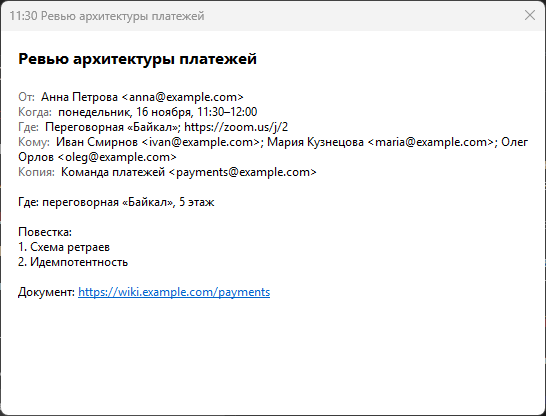
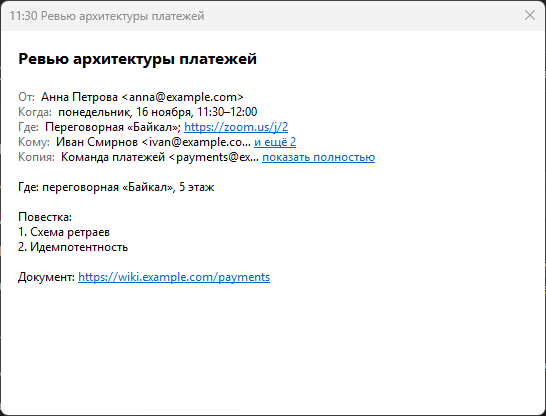
MeetingBell 1.1: участники в описании свёрнуты до 30 символов, ссылки в «Где», ссылки не захватывают кавычки и символы направления

diff --git a/src/DescriptionForm.cs b/src/DescriptionForm.cs
@@ -1,3 +1,4 @@
+using System;
 using System.Collections.Generic;
 using System.Drawing;
 using System.Globalization;
@@ -7,13 +8,19 @@ namespace MeetingBell
 {
     internal sealed class DescriptionForm : Form
     {
+        private const string ExpandTarget = "#expand:";
+        private const string CollapseTarget = "#collapse:";
+        private const int CollapsedLength = 30;
+        private const string MorePrefix = "и ещё ";
         private static readonly Color LinkColor = Color.FromArgb(0, 102, 204);
         private static readonly Color Muted = Color.FromArgb(110, 110, 110);
         private static readonly CultureInfo Russian = new CultureInfo("ru-RU");
         private readonly Meeting meeting;
         private readonly RichTextBox text;
         private readonly Font titleFont;
+        private readonly HashSet<string> expanded = new HashSet<string>();
         private List<TextLink> links = new List<TextLink>();
+        private string plain = "";
 
         public DescriptionForm(Meeting meeting)
         {
@@ -50,7 +57,6 @@ namespace MeetingBell
             {
                 if (e.KeyCode == Keys.Escape) Close();
             };
-            Shown += (sender, e) => text.Select(0, 0);
         }
 
         internal static string When(Meeting meeting)
@@ -59,23 +65,39 @@ namespace MeetingBell
             return meeting.IsAllDay ? day + ", весь день" : day + ", " + meeting.Start.ToString("HH:mm") + "–" + meeting.End.ToString("HH:mm");
         }
 
+        internal static List<string> SplitPeople(string value, out int more)
+        {
+            more = 0;
+            var people = new List<string>(value.Split(new[] { "; " }, StringSplitOptions.RemoveEmptyEntries));
+            int last = people.Count - 1;
+            int tail;
+            if (last >= 0 && people[last].StartsWith(MorePrefix) && int.TryParse(people[last].Substring(MorePrefix.Length), out tail))
+            {
+                more = tail;
+                people.RemoveAt(last);
+            }
+            return people;
+        }
+
         private void Render()
         {
             text.Clear();
+            var toggles = new List<TextLink>();
             Append(meeting.DisplaySubject + "\n\n", titleFont, ForeColor);
+            int linksFrom = text.TextLength;
             Field("От", meeting.Organizer);
             Field("Когда", When(meeting));
             Field("Где", string.IsNullOrWhiteSpace(meeting.Location) ? null : meeting.Location.Trim());
-            Field("Кому", meeting.RequiredAttendees);
-            Field("Копия", meeting.OptionalAttendees);
+            PeopleField("Кому", meeting.RequiredAttendees, toggles);
+            PeopleField("Копия", meeting.OptionalAttendees, toggles);
             Append("\n", Font, ForeColor);
-            int bodyStart = text.TextLength;
             if (meeting.Description == null) Append("Текста приглашения нет.", Font, Muted);
             else Append(meeting.Description.Replace("\r\n", "\n"), Font, ForeColor);
-            links = new List<TextLink>();
-            foreach (TextLink link in MeetingLinks.WebLinks(text.Text.Substring(bodyStart)))
+            plain = text.Text;
+            links = new List<TextLink>(toggles);
+            foreach (TextLink link in MeetingLinks.WebLinks(plain.Substring(linksFrom)))
             {
-                links.Add(new TextLink(bodyStart + link.Start, link.Length, link.Url));
+                links.Add(new TextLink(linksFrom + link.Start, link.Length, link.Url));
             }
             using (var underline = new Font(Font, FontStyle.Underline))
             {
@@ -96,6 +118,62 @@ namespace MeetingBell
             Append(value + "\n", Font, ForeColor);
         }
 
+        internal static string Collapse(string value, out int hidden)
+        {
+            hidden = 0;
+            if (value.Length <= CollapsedLength) return value;
+            int more;
+            List<string> people = SplitPeople(value, out more);
+            string shown = "";
+            int count = 0;
+            while (count < people.Count)
+            {
+                string candidate = count == 0 ? people[0] : shown + "; " + people[count];
+                if (candidate.Length > CollapsedLength) break;
+                shown = candidate;
+                count++;
+            }
+            if (count == 0 && people.Count > 0)
+            {
+                int cut = char.IsHighSurrogate(people[0][CollapsedLength - 2]) ? CollapsedLength - 2 : CollapsedLength - 1;
+                shown = people[0].Substring(0, cut).TrimEnd() + "…";
+                count = 1;
+            }
+            hidden = people.Count - count + more;
+            return shown;
+        }
+
+        private void PeopleField(string label, string value, List<TextLink> toggles)
+        {
+            if (value == null) return;
+            Append(label + ":  ", Font, Muted);
+            int hidden;
+            string collapsed = Collapse(value, out hidden);
+            if (collapsed == value)
+            {
+                Append(value + "\n", Font, ForeColor);
+                return;
+            }
+            if (expanded.Contains(label))
+            {
+                Append(value, Font, ForeColor);
+                Toggle("свернуть", CollapseTarget + label, toggles);
+            }
+            else
+            {
+                Append(collapsed, Font, ForeColor);
+                Toggle(hidden > 0 ? MorePrefix + hidden : "показать полностью", ExpandTarget + label, toggles);
+            }
+            Append("\n", Font, ForeColor);
+        }
+
+        private void Toggle(string caption, string target, List<TextLink> toggles)
+        {
+            Append(" ", Font, ForeColor);
+            toggles.Add(new TextLink(text.TextLength, caption.Length, target));
+            Append(caption, Font, LinkColor);
+        }
+
         private void Append(string value, Font font, Color color)
         {
             text.Select(text.TextLength, 0);
@@ -112,7 +190,7 @@ namespace MeetingBell
             Point start = text.GetPositionFromCharIndex(index);
             if (point.Y < start.Y || point.Y >= start.Y + Font.Height || point.X < start.X) return null;
             Point next = index + 1 < text.TextLength ? text.GetPositionFromCharIndex(index + 1) : Point.Empty;
-            int right = index + 1 < text.TextLength && next.Y == start.Y ? next.X : start.X + TextRenderer.MeasureText(text.Text.Substring(index, 1), Font).Width;
+            int right = index + 1 < text.TextLength && next.Y == start.Y ? next.X : start.X + TextRenderer.MeasureText(plain.Substring(index, 1), Font, Size.Empty, TextFormatFlags.NoPadding).Width;
             if (point.X >= right) return null;
             return links.Find(link => link.Contains(index));
         }
@@ -122,6 +200,15 @@ namespace MeetingBell
             if (e.Button != MouseButtons.Left || text.SelectionLength > 0) return;
             TextLink link = LinkAt(e.Location);
             if (link == null) return;
+            if (link.Url.StartsWith(ExpandTarget) || link.Url.StartsWith(CollapseTarget))
+            {
+                bool expand = link.Url.StartsWith(ExpandTarget);
+                string field = link.Url.Substring(expand ? ExpandTarget.Length : CollapseTarget.Length);
+                if (expand) expanded.Add(field);
+                else expanded.Remove(field);
+                Render();
+                return;
+            }
             Usage.Hit("description.link");
             string problem = MeetingLinks.Open(link.Url);
             AppLog.Append(problem == null ? "description link opened" : "description link not opened: " + problem);

diff --git a/tests/Tests.cs b/tests/Tests.cs
@@ -245,6 +245,14 @@ namespace MeetingBell
             Check(reloaded.Meetings[0].Organizer == "Анна <anna@example.com>" && reloaded.Meetings[0].RequiredAttendees == "Боб \"шеф\"" && reloaded.Meetings[0].OptionalAttendees == null && reloaded.Meetings[1].Organizer == null, "people survive restart");
             var morning = new Meeting { Start = new DateTime(2026, 11, 16, 11, 30, 0), End = new DateTime(2026, 11, 16, 12, 0, 0) };
             Check(DescriptionForm.When(morning) == "понедельник, 16 ноября, 11:30–12:00", "card time line");
+            int hiddenPeople;
+            Check(DescriptionForm.Collapse("Ян <y@example.com>", out hiddenPeople) == "Ян <y@example.com>" && hiddenPeople == 0, "short people line shown whole");
+            Check(DescriptionForm.Collapse("Ян <y@ex.ru>; Ли <l@ex.ru>; Бо <b@ex.ru>; Ге <g@ex.ru>", out hiddenPeople) == "Ян <y@ex.ru>; Ли <l@ex.ru>" && hiddenPeople == 2, "whole names up to 30 chars, rest counted");
+            Check(DescriptionForm.Collapse("Иван Смирнов <ivan.smirnov@example.com>; Ли <l@ex.ru>; и ещё 34", out hiddenPeople) == "Иван Смирнов <ivan.smirnov@ex…" && hiddenPeople == 35, "long first name cut, server overflow added");
+            Check(DescriptionForm.Collapse("Команда платежей <payments@example.com>", out hiddenPeople).EndsWith("…") && hiddenPeople == 0, "single long name cut without count");
+            int overflow;
+            List<string> split = DescriptionForm.SplitPeople("А; Б; и ещё 7", out overflow);
+            Check(split.Count == 2 && overflow == 7 && DescriptionForm.SplitPeople("и ещё кто-то", out overflow).Count == 1 && overflow == 0, "server overflow tail parsed only as number");
             Check(DescriptionForm.When(new Meeting { Start = new DateTime(2026, 11, 16), End = new DateTime(2026, 11, 17), IsAllDay = true }) == "понедельник, 16 ноября, весь день", "card all-day line");
         }
 
@@ -370,6 +378,8 @@ namespace MeetingBell
             Check(found.Count == 2 && found[0].Url == "https://wiki.example.com/a?b=1" && found[0].Start == 5 && found[0].Length == 30 && found[1].Url == "http://f.example/g", "description links: only http(s) without login, trailing dot and bracket cut");
             Check(found[0].Contains(5) && found[0].Contains(34) && !found[0].Contains(35) && !found[0].Contains(4), "link range bounds");
             Check(MeetingLinks.WebLinks(null).Count == 0 && MeetingLinks.WebLinks("нет ссылок").Count == 0, "no links in empty text");
+            List<TextLink> quoted = MeetingLinks.WebLinks("См. «https://wiki.example.com/a» и https://b.example/c… и https://evil.example/" + (char)0x202E + "moc.knab");
+            Check(quoted.Count == 3 && quoted[0].Url == "https://wiki.example.com/a" && quoted[1].Url == "https://b.example/c" && quoted[2].Url == "https://evil.example/", "link stops at russian quotes, ellipsis and direction marks");
             Check(MeetingLinks.DisplayHost("https://rooms.example.com/5") == "rooms.example.com", "ascii host shown as is");
             var again = new Dictionary<string, Meeting> { { "X", At(DateTime.Today, 30, "x") }, { "Y", At(DateTime.Today, 30, "y") } };
             Meeting oldX = At(DateTime.Today, 30, "x");

diff --git a/src/MeetingLinks.cs b/src/MeetingLinks.cs
@@ -7,7 +7,7 @@ namespace MeetingBell
 {
     internal static class MeetingLinks
     {
-        private static readonly Regex UrlPattern = new Regex(@"https?://[^\s<>""'\]\)]+", RegexOptions.IgnoreCase | RegexOptions.CultureInvariant);
+        private static readonly Regex UrlPattern = new Regex(@"https?://[^\s<>""'\]\)«»“”„…\u200B-\u200F\u202A-\u202E\u2066-\u2069]+", RegexOptions.IgnoreCase | RegexOptions.CultureInvariant);
         private static readonly string[] ConferenceHosts =
         {
             "zoom.us", "zoom.com", "teams.microsoft.com", "teams.live.com", "meet.google.com", "telemost.yandex.ru",

diff --git a/CHANGELOG.md b/CHANGELOG.md
@@ -9,8 +9,8 @@
 - Колокольчик зелёный, когда всё работает, и красный при проблеме с логином или Exchange (серый без VPN — как раньше).
 - После смены адреса или логина Exchange список прежней учётной записи убирается сразу.
 - Меню встречи — «Подключиться», «Описание» и подменю «Напоминание»; недоступный пункт серый.
-- «Описание» показывает приглашение как в веб-почте: тема, от кого, когда, где, кому и копия, затем текст. Ссылки
-  http и https в тексте открываются в браузере.
+- «Описание» показывает приглашение как в веб-почте: тема, от кого, когда, где, кому и копия, затем текст. Длинные
+  списки участников свёрнуты до 30 символов и раскрываются по ссылке. Ссылки http и https открываются в браузере.
 - Сообщение о неверном адресе веб-почты называет и запрет логина в адресе.
 
 ## 1.0 — 16.11.2026

diff --git a/README.md b/README.md
@@ -31,7 +31,8 @@
 - **Меню встречи** — клик по встрече в списке: «Подключиться», «Описание» и «Напоминание». Пункт серый, если у встречи
   нет ссылки или описания (у встречи на весь день — и напоминания).
 - **Описание** — приглашение как в веб-почте: тема, от кого, когда, где, кому и копия, ниже текст приглашения (место,
-  повестка, ссылки, если организатор написал их там). Ссылки http и https открываются в браузере. Окно закрывается
+  повестка, ссылки, если организатор написал их там). Длинные «Кому» и «Копия» свёрнуты до 30 символов, ссылка
+  «и ещё N» раскрывает список. Ссылки http и https в «Где» и в тексте открываются в браузере. Окно закрывается
   крестиком или Esc.
 
   ![Описание встречи](docs/description.png)
